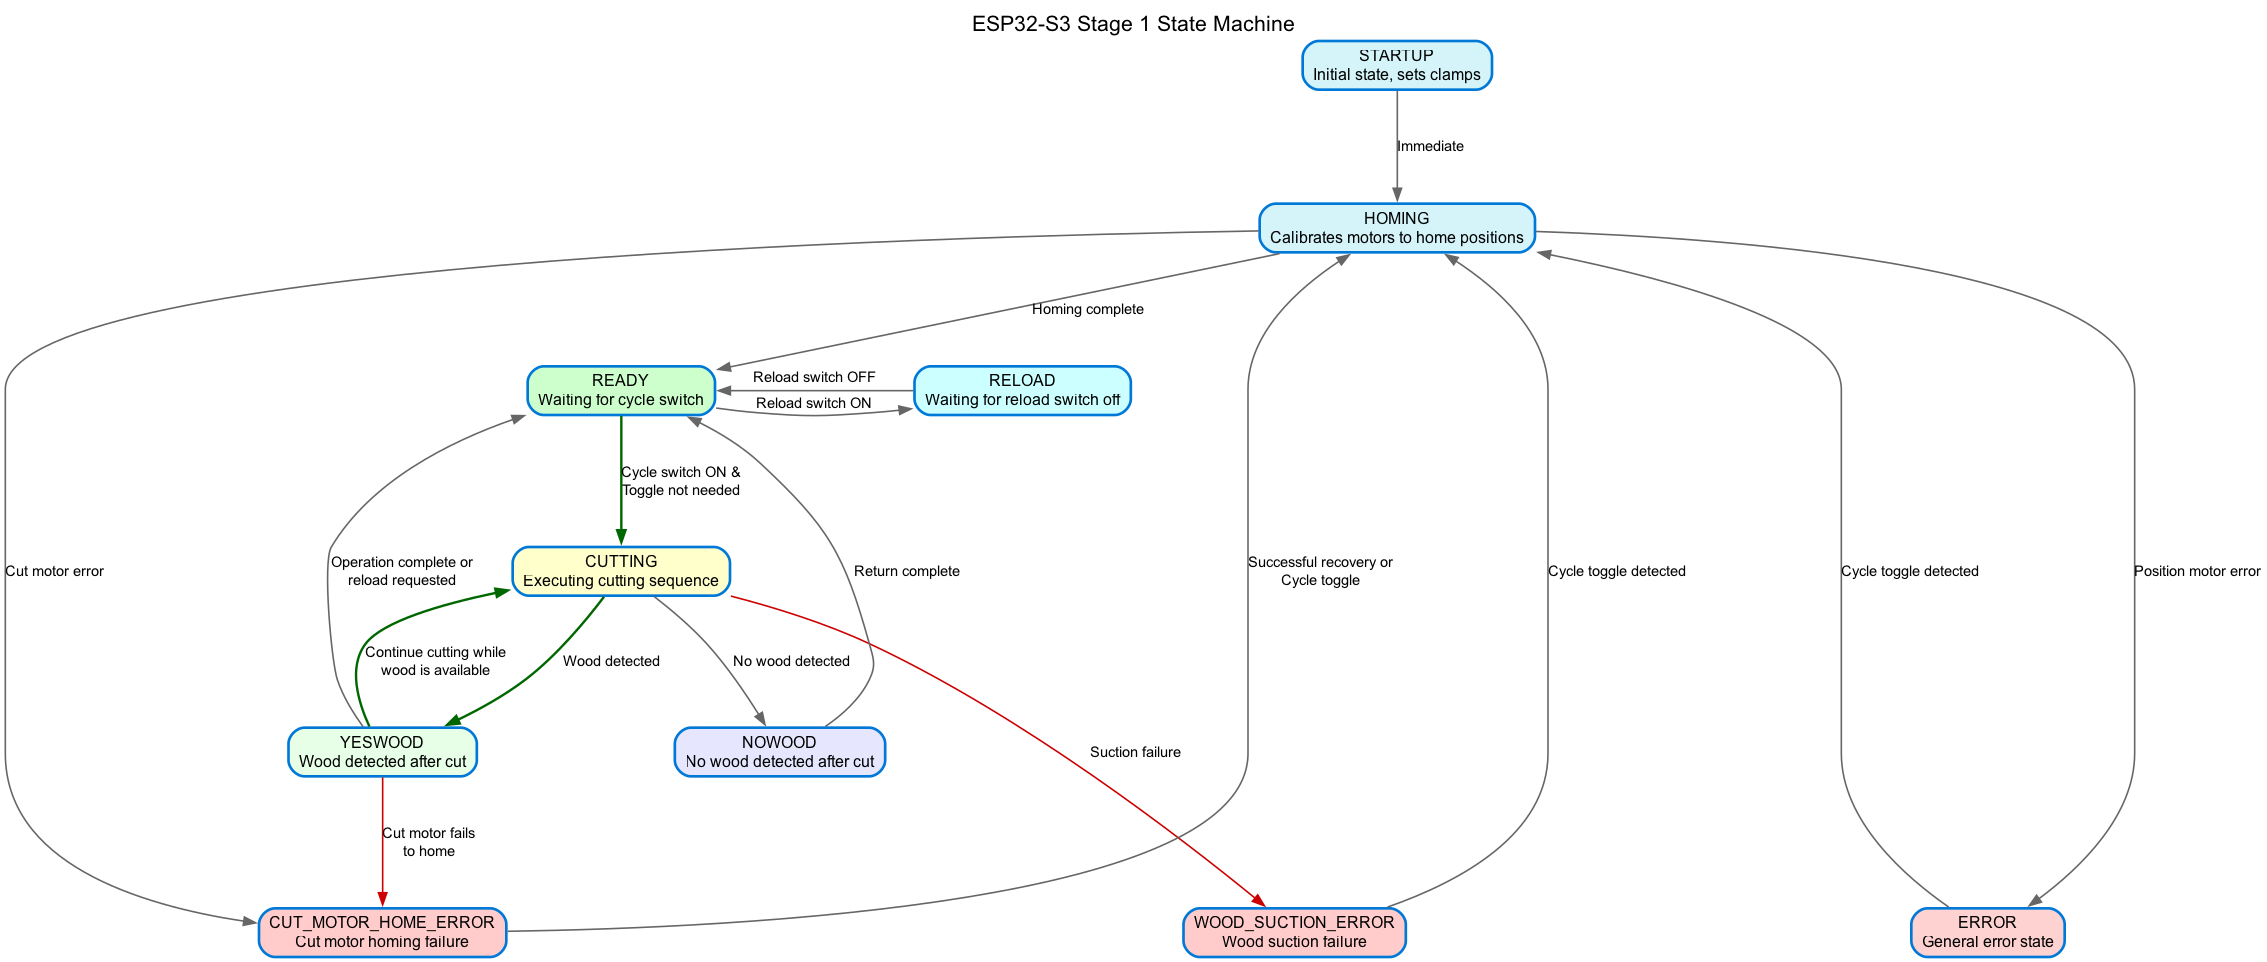
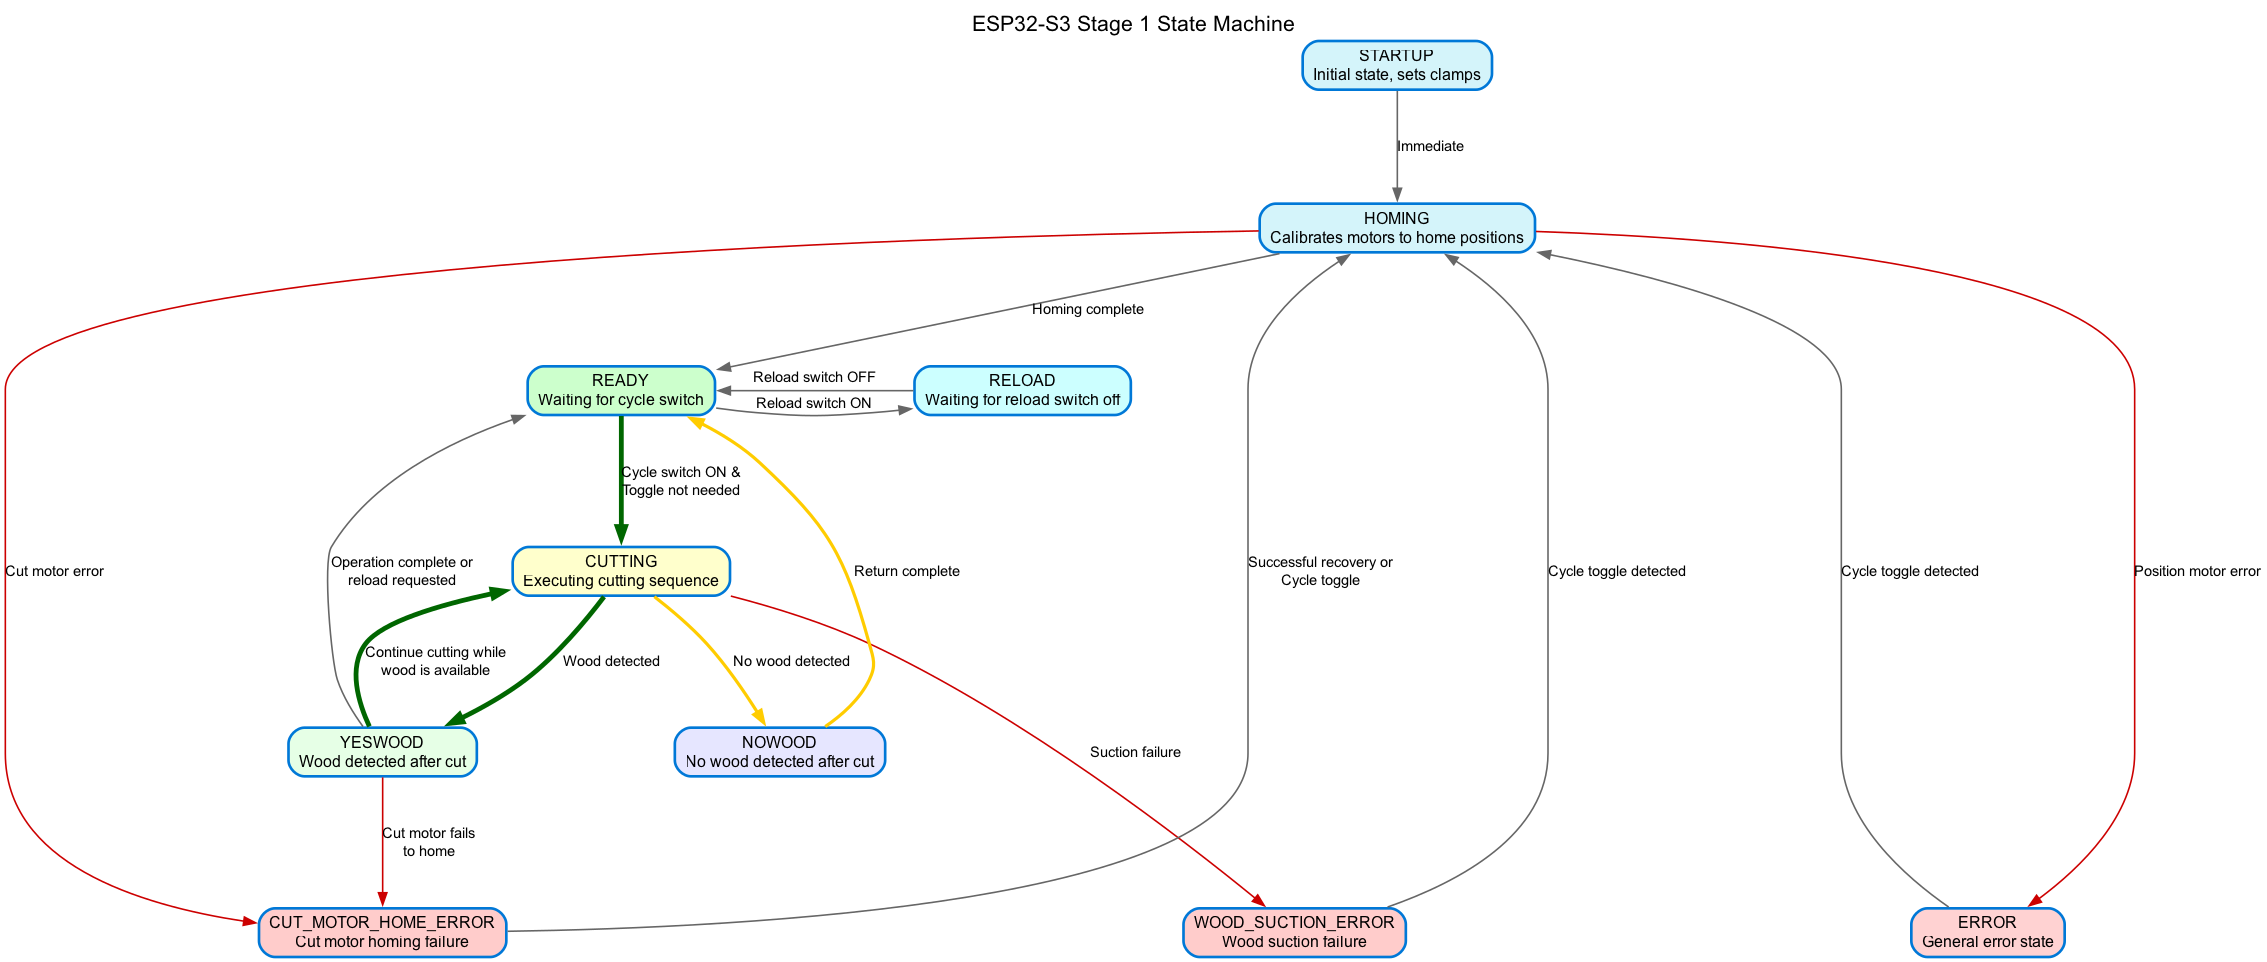
Enhance flowchart with color coding: green for optimal paths, yellow for secondary paths, red for errors

Changed region(s): [[0.3088, 0.4366, 0.3397, 0.4678]]

diff --git a/flowcharts/README.md b/flowcharts/README.md
@@ -33,6 +33,32 @@ This flowchart visualizes the state machine implemented in the ESP32-S3 Stage 1 
 - **NOWOOD → READY**: Motors return to home, ready for next operation
 - **Error states → HOMING**: Cycle switch is toggled, resetting the system
 
+## Transition Color Coding
+
+The flowchart uses color to indicate different types of transitions:
+
+- **Thick Green Arrows** - Primary production path (optimal cycle):
+  - READY → CUTTING
+  - CUTTING → YESWOOD
+  - YESWOOD → CUTTING (continuous operation)
+
+- **Medium Yellow Arrows** - Secondary production path (acceptable but non-optimal):
+  - CUTTING → NOWOOD (when no more wood is detected)
+  - NOWOOD → READY (returning to ready after no wood)
+
+- **Red Arrows** - Error transitions:
+  - HOMING → ERROR
+  - HOMING → CUT_MOTOR_HOME_ERROR
+  - CUTTING → WOOD_SUCTION_ERROR
+  - YESWOOD → CUT_MOTOR_HOME_ERROR
+
+- **Gray Arrows** - Standard transitions between states
+
+The thickness of arrows indicates the relative importance of the transition path:
+- Green paths are thickest (3x normal) - highest priority production path
+- Yellow paths are medium thick (2x normal) - secondary production paths
+- Error and standard paths are normal thickness
+
 ## LED Patterns
 
 - **READY**: Green LED on
